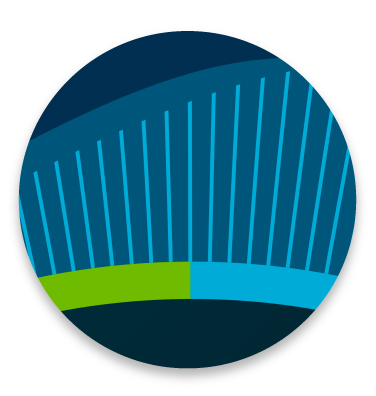
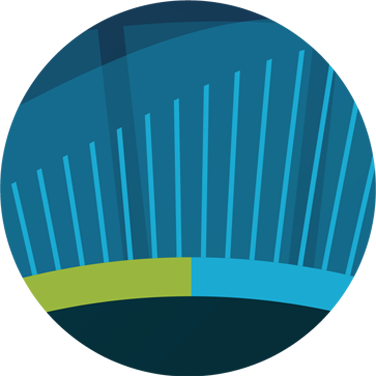
UDNP-2110 — Add light theme starburst images
Due to new sizing for the starburst help images, I also had to reposition some of the SVG lines and circles so they would point at the correct items.

diff --git a/src/containers/starburst-help.jsx b/src/containers/starburst-help.jsx
@@ -64,9 +64,9 @@ const StarburstHelp = ({router}) => {
               <FormattedMessage tagName="tspan" id="portal.startburstHelp.noData.text"/>
             </text>
             {/* Pointer */}
-            <line className="pointer" x1="1560.7" y1="422.9"
+            <line className="pointer" x1="1560.7" y1="428.1"
               x2="1560.7" y2="597.7"/>
-            <circle className="pointer-dot" cx="1560.7" cy="423.1" r="3.8"/>
+            <circle className="pointer-dot" cx="1560.7" cy="428.1" r="3.8"/>
           </g>
           {/* Blue Lines*/}
           <g>
@@ -76,8 +76,8 @@ const StarburstHelp = ({router}) => {
             </text>
             {/* Pointer */}
             <line className="pointer"
-              x1="1598.9" y1="317.6" x2="1762.6" y2="317.6"/>
-            <circle className="pointer-dot" cx="1599" cy="317.6" r="3.8"/>
+              x1="1588" y1="317.6" x2="1762.6" y2="317.6"/>
+            <circle className="pointer-dot" cx="1588" cy="317.6" r="3.8"/>
             {/* Description */}
             <text transform="matrix(1 0 0 1 1780.057 324.5964)">
               <tspan x="0" y="0">
@@ -122,8 +122,8 @@ const StarburstHelp = ({router}) => {
             </text>
             {/* Pointer */}
             <line className="pointer"
-              x1="764" y1="837" x2="184" y2="1037"/>
-            <circle className="pointer-dot" cx="764" cy="837" r="3.8"/>
+              x1="730" y1="797" x2="184" y2="1037"/>
+            <circle className="pointer-dot" cx="730" cy="797" r="3.8"/>
             {/* Description */}
             <text transform="matrix(1 0 0 1 82 945)">
               <FormattedMessage tagName="tspan" id="portal.startburstHelp.metrics.text"/>
@@ -213,9 +213,9 @@ const StarburstHelp = ({router}) => {
               <FormattedMessage tagName="tspan" id="portal.startburstHelp.ttfb.text"/>
             </text>
             {/* Pointer */}
-            <line className="pointer" x1="935" y1="772"
+            <line className="pointer" x1="950" y1="707"
               x2="1197" y2="1066"/>
-            <circle className="pointer-dot" cx="935" cy="772" r="3.8"/>
+            <circle className="pointer-dot" cx="950" cy="707" r="3.8"/>
             {/* Descrition */}
             <text transform="matrix(1 0 0 1 1040 1148)">
               <tspan x="0" y="0">
@@ -233,8 +233,8 @@ const StarburstHelp = ({router}) => {
               <FormattedMessage tagName="tspan" id="portal.startburstHelp.cacheHitRate.text"/>
             </text>
             {/* Pointer */}
-            <line className="pointer" x1="795" y1="745" x2="514" y2="650"/>
-            <circle className="pointer-dot" cx="795" cy="745" r="3.8"/>
+            <line className="pointer" x1="765" y1="680" x2="514" y2="650"/>
+            <circle className="pointer-dot" cx="765" cy="680" r="3.8"/>
             {/* Description */}
             <text transform="matrix(1 0 0 1 0 653)">
               <tspan x="0" y="0">

diff --git a/src/styles/containers/_starburst-help.scss b/src/styles/containers/_starburst-help.scss
@@ -50,6 +50,16 @@
     background-size: cover;
   }
 
+  .light-theme & {
+    .help-example {
+      background-image: url('../assets/img/starburst-help-example-light.png');
+    }
+
+    .help-detail {
+      background-image: url('../assets/img/starburst-help-detail-light.png');
+    }
+  }
+
   svg {
     position: relative;
   }
@@ -91,7 +101,7 @@
       fill: rgba($pale-blue, 0.2);
 
       .light-theme & {
-        fill: rgba($pale-blue, 0.6);
+        fill: darken(rgba($pale-blue, 0.8), 15);
       }
     }
 
@@ -99,7 +109,7 @@
       fill: $dt-text-color;
 
       .light-theme & {
-        fill: $lt-text-color;
+        fill: $white;
       }
     }
 
@@ -109,7 +119,7 @@
       fill: $dt-text-color;
 
       .light-theme & {
-        fill: $lt-text-color;
+        fill: $white;
       }
     }
   }
